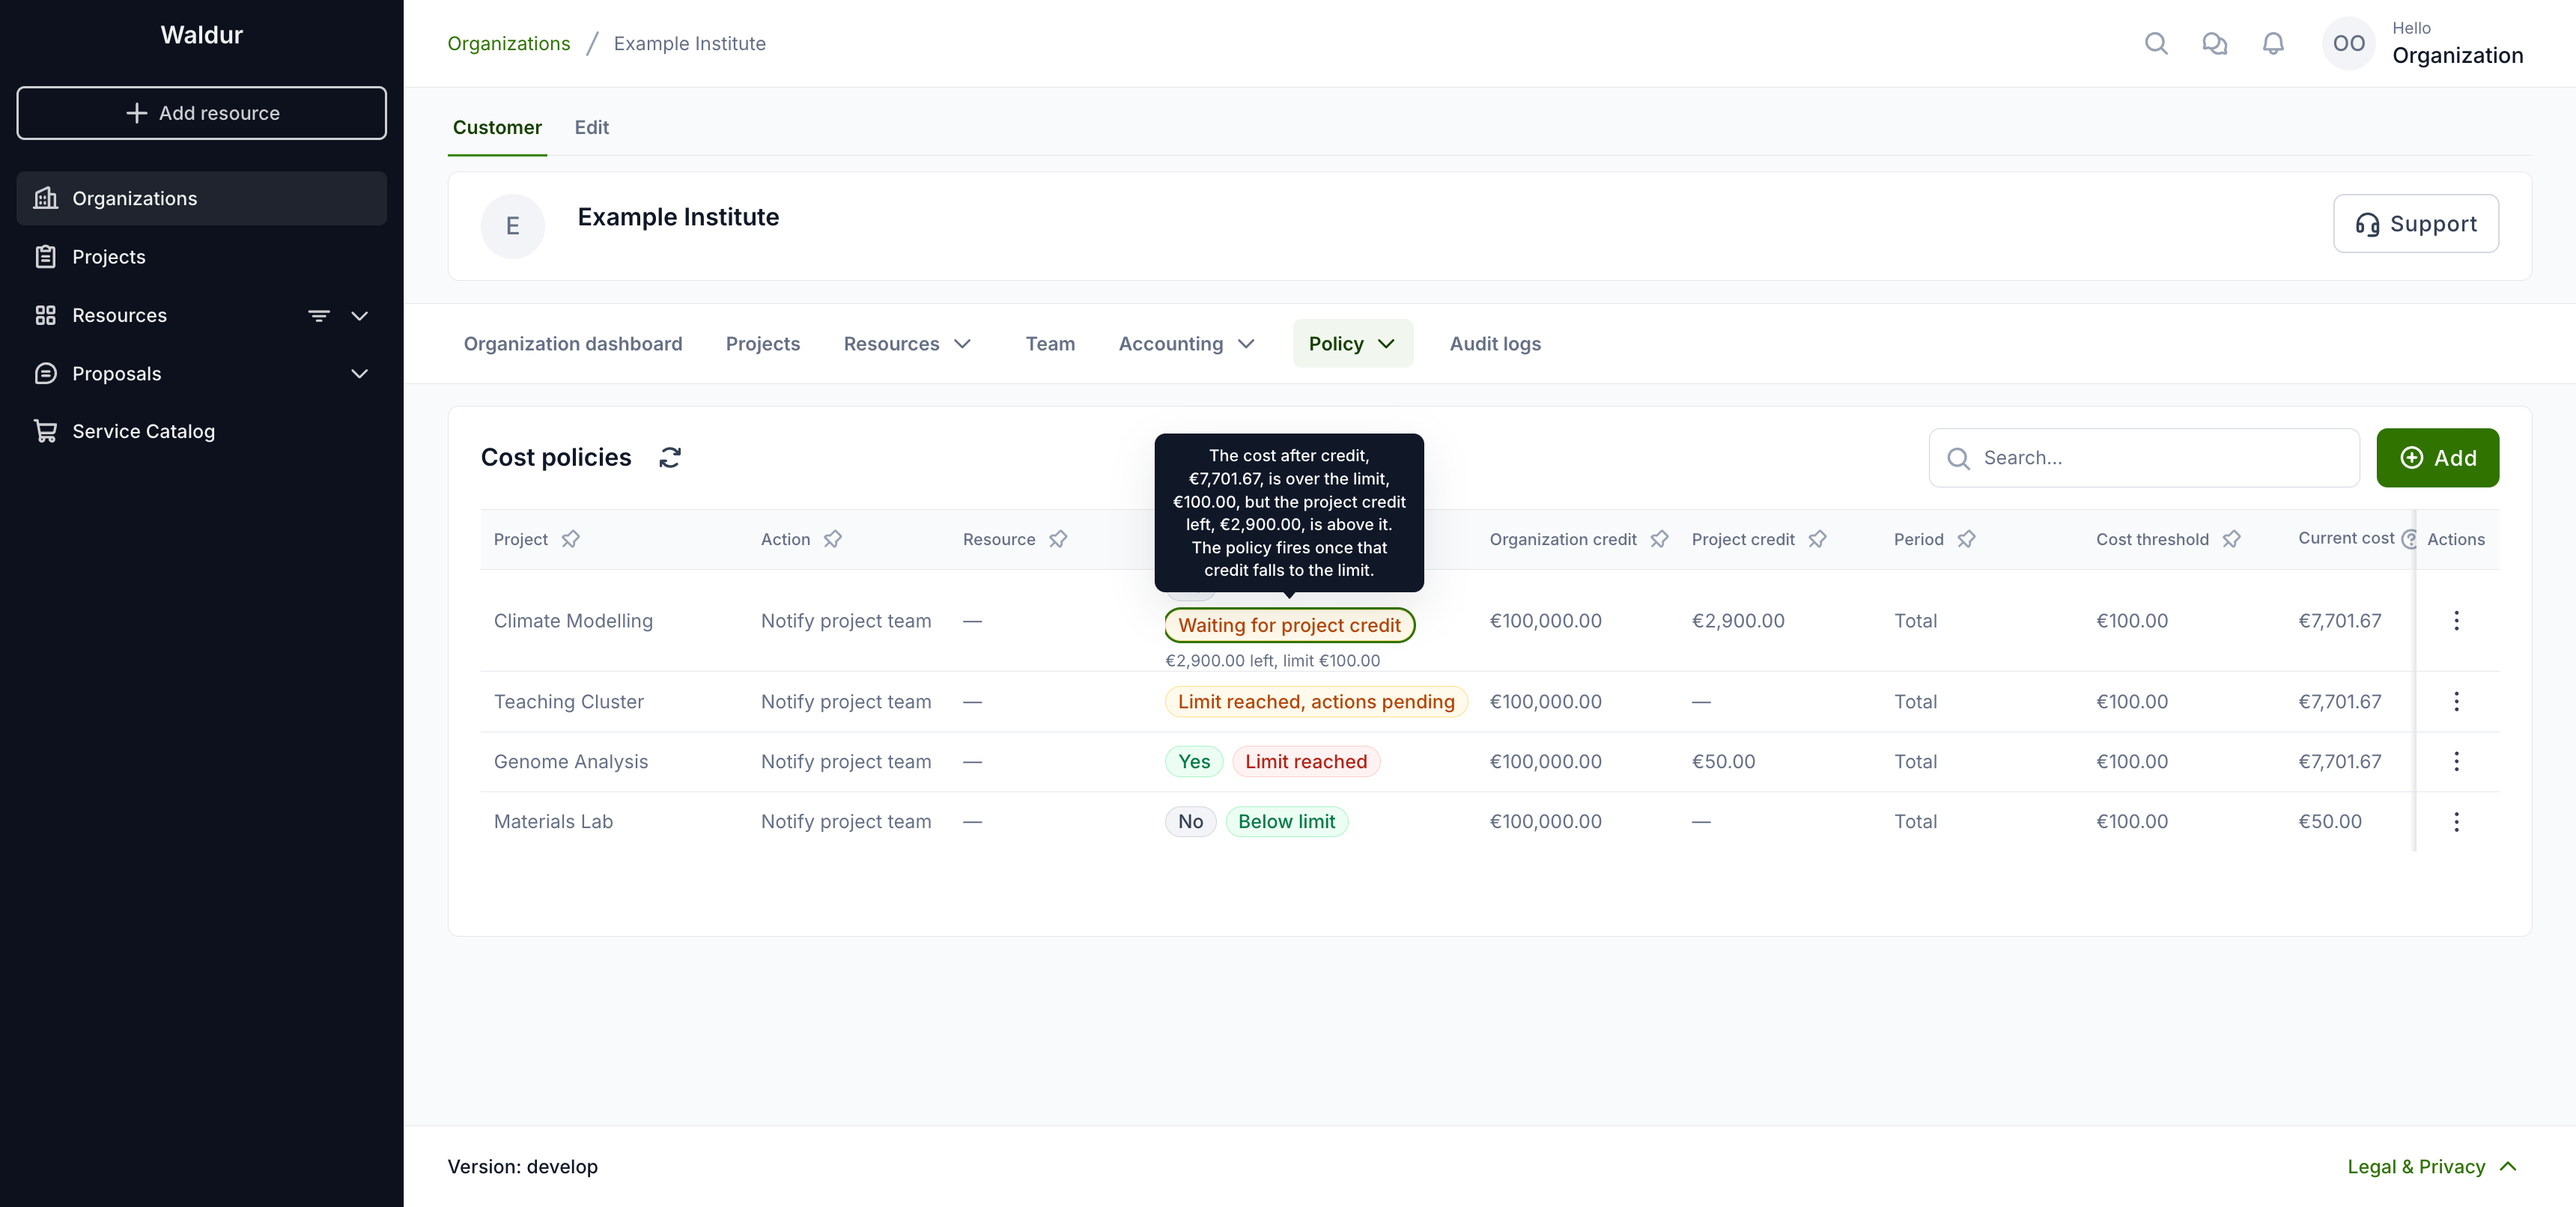
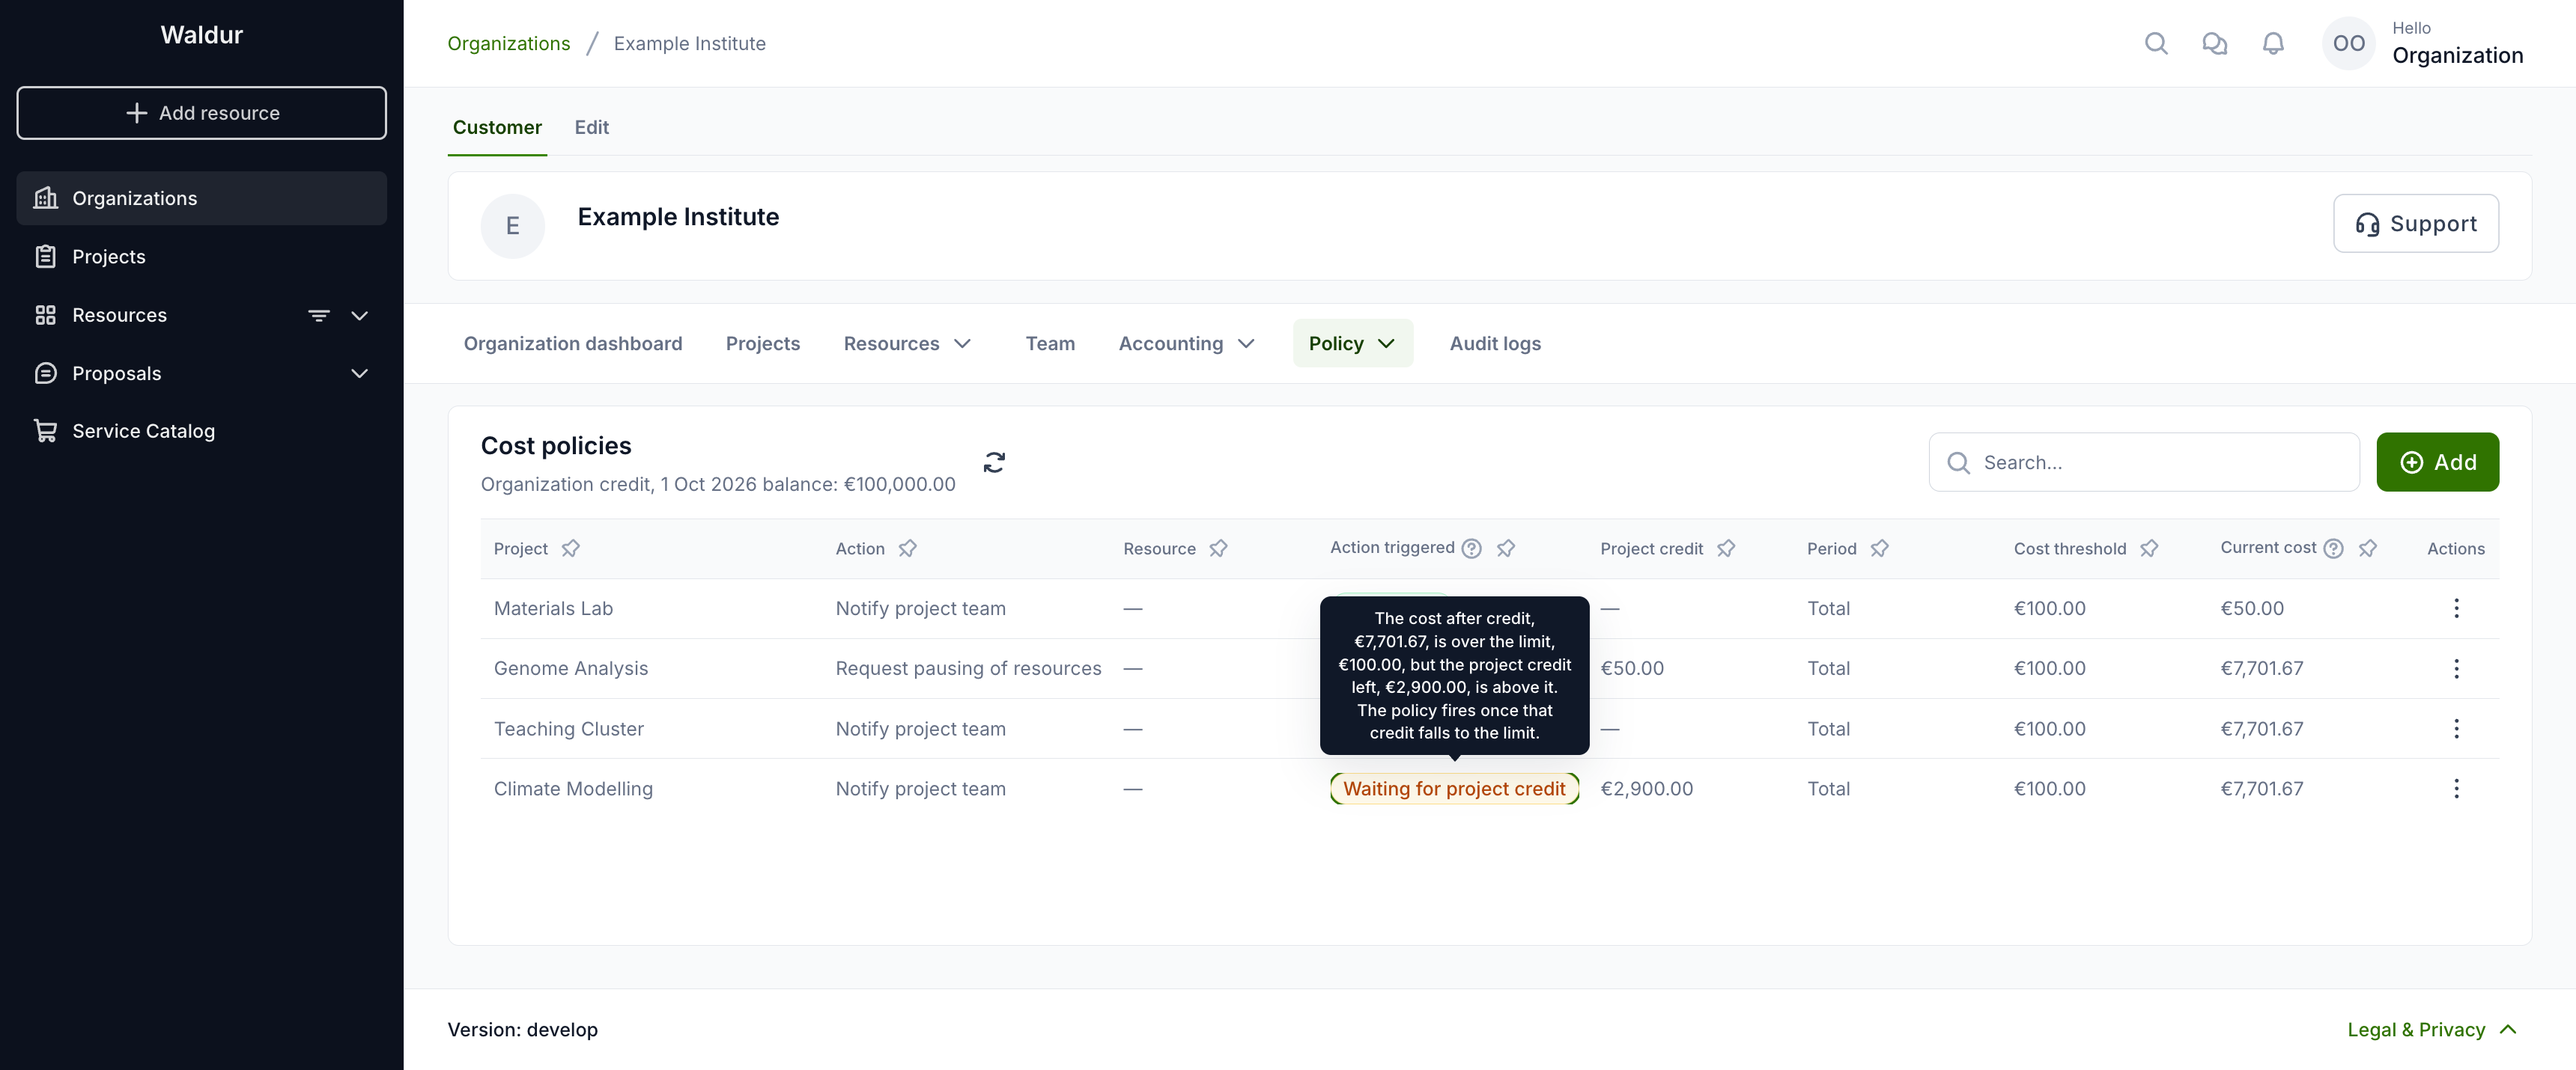
Describe the one-badge cost policy status and the organization credit subtitle [waldur/waldur-homeport#351]

diff --git a/docs/user-guide/customer-organization/cost-and-usage-policies.md b/docs/user-guide/customer-organization/cost-and-usage-policies.md
@@ -28,21 +28,21 @@ The credit that counts is what is left after this month's usage so far, so the p
 
 ### What a cost policy is doing now
 
-The cost policy list shows, next to **Action triggered**, what the policy's latest evaluation found, so a policy that is over its limit but waiting for credit does not look broken. **Current cost** is the figure the policy compares with its threshold: the cost in the policy's period, less what credit pays.
+The **Action triggered** column shows one status per policy: what its latest evaluation found. A policy that is over its limit but waiting for credit therefore does not look broken. **Current cost** is the figure the policy compares with its threshold: the cost in the policy's period, less what credit pays. The organization's credit, as its balance at the start of the month, is shown once under the list title.
     ![Cost policy statuses](../img/Cost_policy_status_list.png)
 
 | Status | Meaning |
 |---|---|
 | **Below limit** | The cost after credit is at or below the threshold. |
-| **Waiting for project credit** / **Waiting for organization credit** | The cost is over the threshold, but that credit still has more left than the threshold. The line under it shows how much is left; the policy fires once it falls to the threshold. |
-| **Limit reached, actions pending** | The policy fires on the current figures, and its actions run at its next evaluation. |
-| **Limit reached** | The policy has fired and its actions have run. |
-| **Resets at next evaluation** | The policy fired earlier but is no longer over its limit, for example after a credit top-up; its actions are undone at its next evaluation. |
+| **Waiting for project credit** / **Waiting for organization credit** | The cost is over the threshold, but that credit still has more left than the threshold. The policy fires once it falls to the threshold. |
+| **Actions pending** | The cost is over the threshold and the policy fires on the current figures. Its actions run at its next evaluation. |
+| **Limit reached** | The policy has fired and its actions have run. For an action that changes resources, such as pausing, the number of resources it changed is shown next to the status. |
+| **Resets at next evaluation** | The policy fired earlier but is no longer over its limit, for example after a credit top-up. Its actions are undone at its next evaluation. |
 
-Point at the status, or move to it with the keyboard, to see the full reason with the figures:
+Point at the status, or move to it with the keyboard, to see the full reason with the figures: the cost, the threshold and, for a policy waiting for credit, how much credit is left.
     ![Reason a cost policy waits](../img/Cost_policy_status_tooltip.png)
 
-Project managers and members see the same statuses, but not the organization's credit: for a policy held by the organization credit they see "Credit left is above the limit" without the amount.
+Project managers and members see the same statuses, but not the organization's credit. For a policy held by the organization credit, the reason they see leaves out the amount.
 
 On a project's dashboard, the credit card shows a warning when one of the project's cost policies has reached its limit and its actions are about to run, or when the credit left is within 20 % of a policy's threshold.
 
